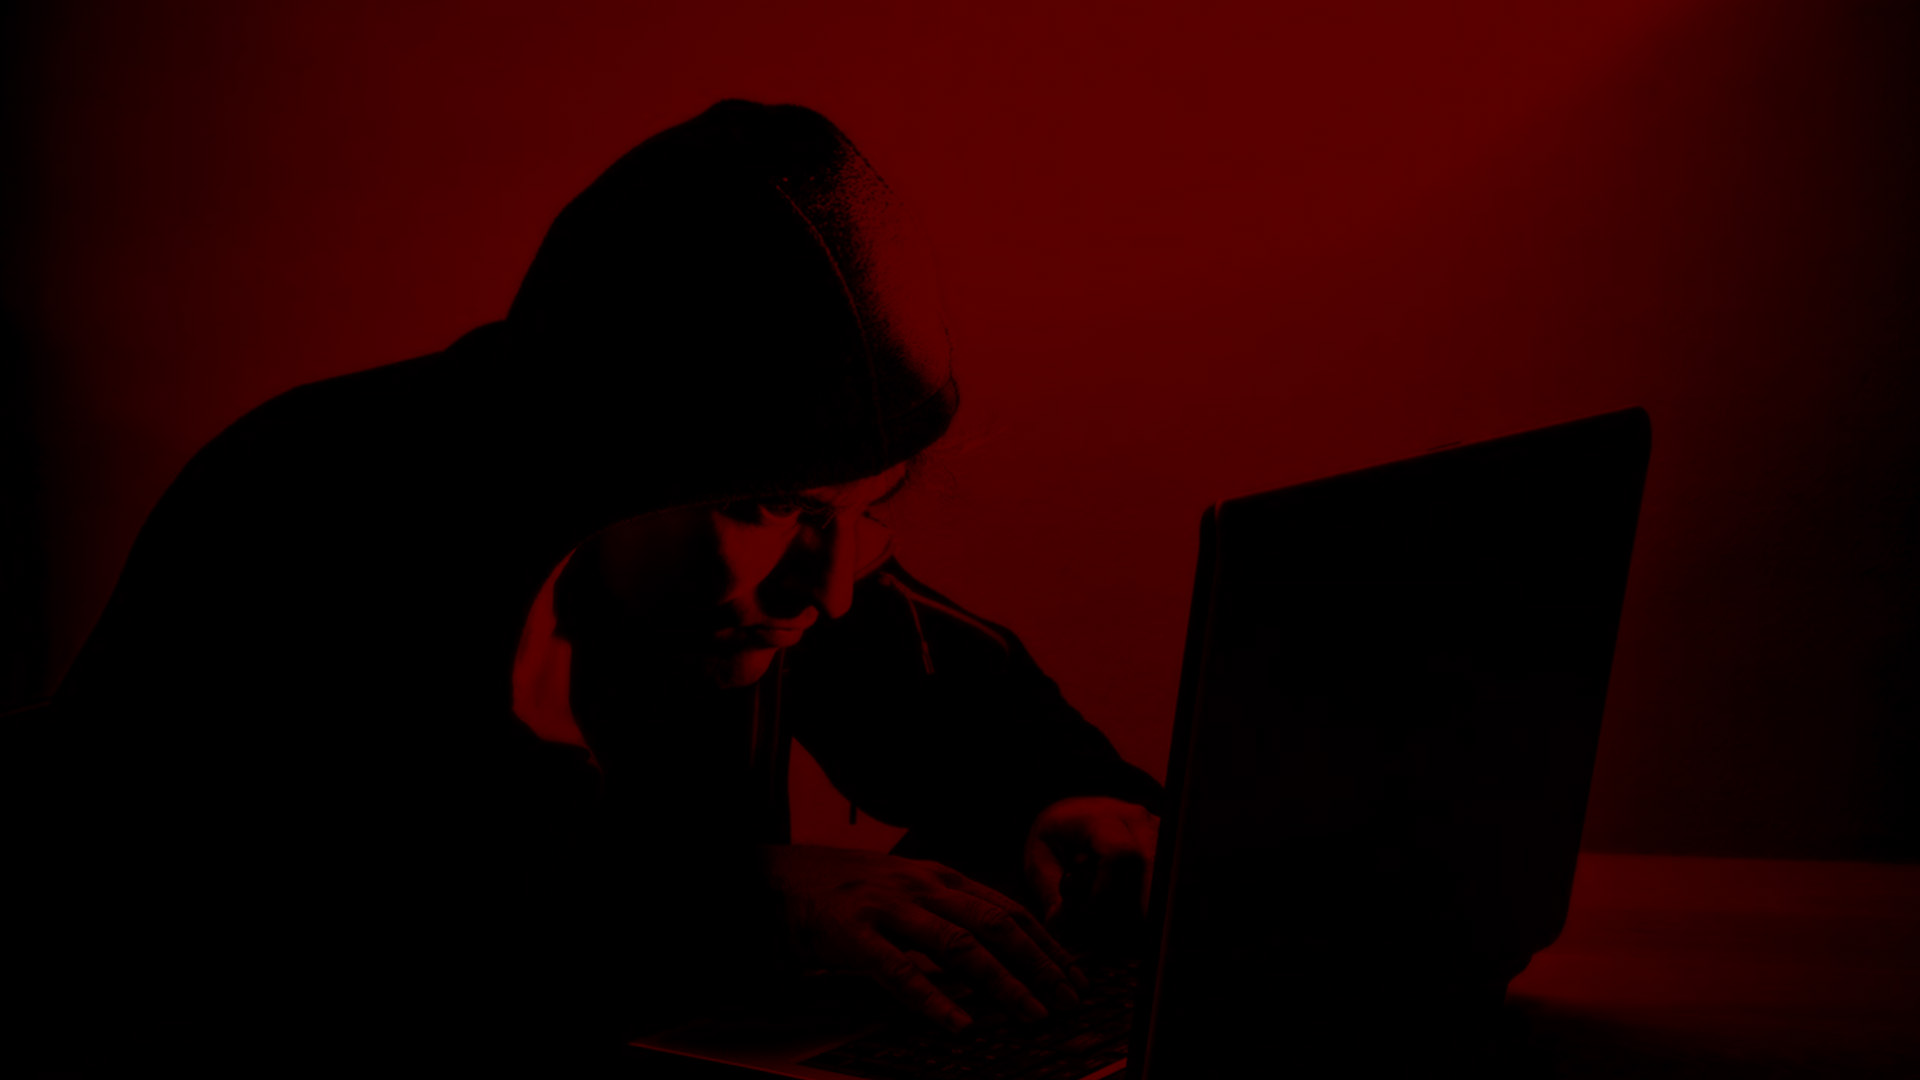
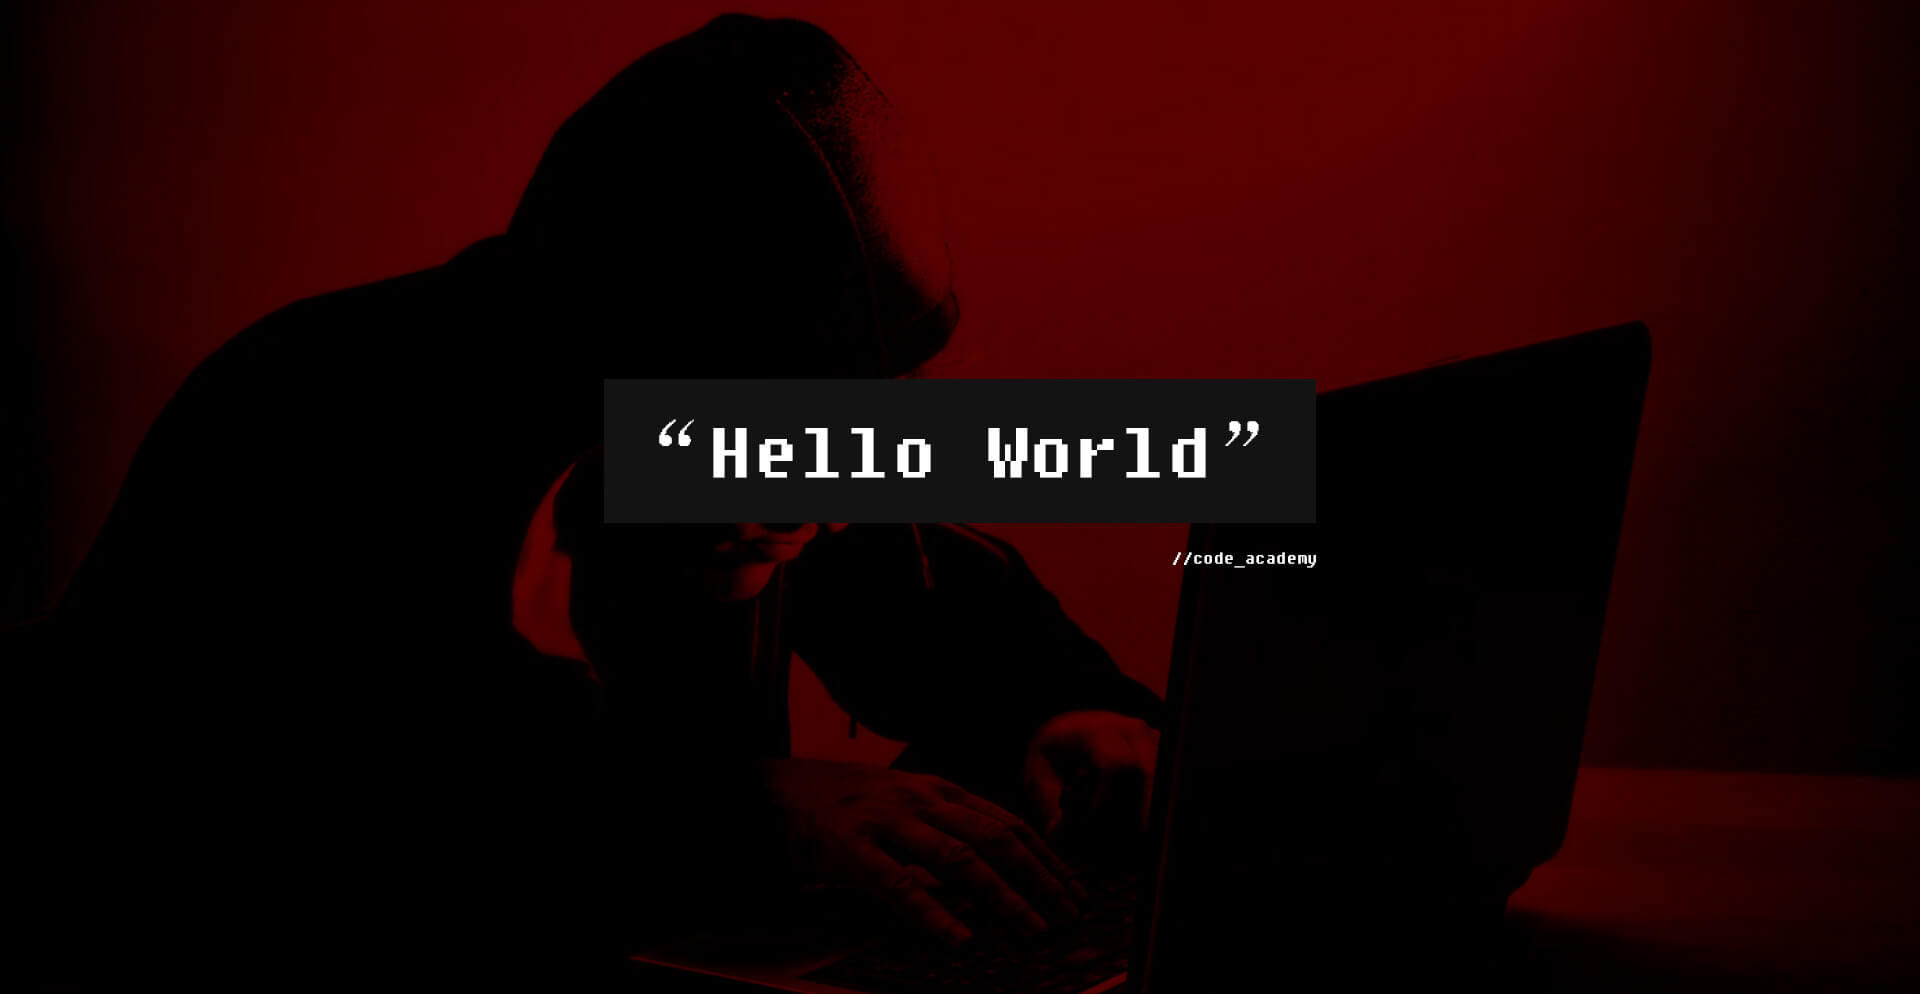
app

diff --git a/src/components/home/home.vue b/src/components/home/home.vue
@@ -1,44 +1,69 @@
 <template lang="jade">
     mu-row(gutter)
-        mu-row.fullscreen(v-bind:style="{height : height + 'px'}" style="color: #111111;background-image:url('../../../static/img/home/homebg.jpg')")
-            mu-col.half(desktop="100")
-                img(src="../../../static/img/home/hello_world.jpg")
-
+        mu-row.fullscreen(v-bind:style="{height : height + 'px'}" style="background-image:url('/static/img/home/homebg.jpg')")
         mu-row.fullscreen(v-bind:style="{height : height + 'px'}" style="color: #b00000;background-color:#eaeaea")
             mu-col.half(desktop="50" style="padding: 0 200px 0 0;")
-                h1 采用最先进的教学方式
+                h1 Co-Learning
                 .line(style="background-color:#b00000")
-                p 我们的核心是Co-Learning，大家聚在一起学习与交流可以通过网络获取知识，解决知识更新过快的问题
+                br
+                i.icon.users.huge
+                br
+                p 我们的核心是Co-Learning（联合学习）
+                p 在自我探索和与群体分享的过程中，大家聚在一起学习与交流，获取全面、最新的知识，解决知识更新过快的问题。
             mu-col.half(desktop="50")
                 .img(style="background-image: url(../../../static/img/home/one.jpg)")
                     .identifie(style="border: 4px solid white")
 
-        mu-row.fullscreen(v-bind:style="{height : height + 'px'}" style="color: black;background-color:#f3f3f3")
+        mu-row.fullscreen(v-bind:style="{height : height + 'px'}" style="color: black;background-color:#f4f4f4")
+            mu-col.half(desktop="50")
+                .img(style="background-image: url(../../../static/img/home/three.png)")
+                    .identifie(style="border: 4px solid white")
+            mu-col.half(desktop="50" style="padding: 0 0 0 200px;")
+                h1 项目驱使的教学方法
+                .line(style="background-color:#b00000")
+                br
+                i.icon.calendar.huge
+                br
+                p 一进入学校，便开始真正进入项目合作。
+                p 你可以选择项目中感兴趣的部分所有获取的知识都来自于实际的项目。CodeA会为你提供可选择的项目，了解项目需求后，你可以自行选择：UI设计或者数据库等
+                p 你完成的项目越多，级别越高，每到达7级或7的倍数时，可进入实习与培训项目
+                p 毕业时，你的履历中将是满满的经验值.
+
+        mu-row.fullscreen(v-bind:style="{height : height + 'px'}" style="color: black;background-color:#eaeaea")
             mu-col.half(desktop="50" style="padding: 0 200px 0 0;")
                 h1 教和学是一体的
-                .line(style="background-color:#111111")
+                .line(style="background-color:#222")
+                br
+                i.icon.spy.huge
+                br
                 p 老师就是你身边的任何一个人，他可以是学校的聘任的编程大师，也可以是刚入学的同学；不要吝啬你的知识，分享给你身边的人
             mu-col.half(desktop="50")
                 .img(style="background-image: url(../../../static/img/home/two.jpg);height:64%;width:80%")
                     .identifie(style="border: 4px solid white")
 
-        mu-row.fullscreen(v-bind:style="{height : height + 'px'}" style="color: black;background-color:#eaeaea")
+        mu-row.fullscreen(v-bind:style="{height : height + 'px'}" style="color: black;background-color:#f4f4f4")
             mu-col.half(desktop="50")
                 .img(style="background-image: url(../../../static/img/home/three.png)")
                     .identifie(style="border: 4px solid white")
             mu-col.half(desktop="50" style="padding: 0 0 0 200px;")
                 h1 按照自己的节奏
                 .line(style="background-color:black")
-                p 学校里，所有人都要用同样的时间，学同一样东西，这个不是Bad idea吗 <br/> 你将按照自己的节奏来学习 <br/>你生来就不一样，不需要同进退
+                br
+                i.icon.rocket.huge
+                br
+                p 如果能用一天的时间学习完课表上五天的内容，为什么不呢？在大多数学校里，所有人都要用同样的时间，学同一样的东西
+                p 但在CodeA，你可以自由地按照自己的节奏学习
+                p 你生来就不一样，不需要同进退
 
-        mu-row.fullscreen(v-bind:style="{height : height + 'px'}" style="color: #3b3b3b;padding: 0 10%;background-color:#f3f3f3")
+
+        mu-row.fullscreen(v-bind:style="{height : height + 'px'}" style="color: #3b3b3b;padding: 0 10%;background-color:#eaeaea")
             mu-col.half(desktop="30" v-for="item in features")
                 div(style="height: 70%;background-color: white;" align="center")
                     img(:src="item.img" style="width:51%;margin:17% 0;")
                     p(style="padding:0 15%;" v-html="item.textfile" align="left")  {{item.textfile}}
                     h2(style="margin: 14% 0") {{item.name}}
 
-        mu-row.fullscreen(v-bind:style="{height : height + 'px'}" style="padding:0;background-color:#eaeaea")
+        mu-row.fullscreen(v-bind:style="{height : height + 'px'}" style="padding:0;background-color:#f4f4f4")
                 mu-col.half(desktop="100" style="height:27%")
                     h1(align="center") 在这里 <br/> 你可以参与到的项目
                 mu-col.half(desktop="50" style="height:20%;background-color:#d7d7d7;padding:0 8% 0 3%;")
@@ -86,7 +111,7 @@
                 mu-col.half(desktop="100" align="center" style="height:13%")
                     mu-raised-button(style="width:300px;height:50px;font-size:18px;color:#b00000") 更多项目
         
-        mu-row.fullscreen(v-bind:style="{height : height + 'px'}" style="padding:0;background-color:#f3f3f3")
+        mu-row.fullscreen(v-bind:style="{height : height + 'px'}" style="padding:0;background-color:#eaeaea")
             mu-col.half(desktop="100" style="height:27%")
                 h1(align="center") 所想 <br/> 即所得
             mu-col.half(desktop="100" align="center" style="height:73%")
@@ -96,7 +121,7 @@
                 h2 成为P8的一员
                 
 
-        mu-row.fullscreen(v-bind:style="{height : height + 'px'}" style="padding:0;background-color:#eaeaea")
+        mu-row.fullscreen(v-bind:style="{height : height + 'px'}" style="padding:0;background-color:#f4f4f4")
             mu-col.half(align="center" desktop="100" style="position: relative")
                 div.last-title
                     h1 Geek文化
@@ -156,6 +181,14 @@ export default {
     padding: 0 !important;
 }
 
+.first-page {
+    font-size: 70px;
+    background-color: #151515;
+    color: white;
+    margin: 0 auto;
+    padding: 20px;
+}
+
 .fullscreen {
     width: 100%;
     padding: 0 20%;
@@ -172,6 +205,8 @@ export default {
 
 .half p {
     font-size: 15px;
+    line-height: 27px;
+    margin: 10px 0;
 }
 
 .line {
@@ -199,40 +234,40 @@ h2 {
 
 .last-title {
     position: relative;
-    color:#b00000;
-    top:4%;
+    color: #b00000;
+    top: 4%;
     left: -10%;
     z-index: 99;
-    background-color: #eaeaea;
+    background-color: #f4f4f4;
     width: 20%;
 }
 
 .last-content {
     position: relative;
-    color:#b00000;
-    width:25%;
-    top:5%;
+    color: #b00000;
+    width: 25%;
+    top: 5%;
     left: -1%;
     padding: 0 10px;
     z-index: 99;
     line-height: 25px;
     text-align: left;
-    background-color: #eaeaea;
+    background-color: #f4f4f4;
 }
 
 .last-img {
-    position:relative;
-    top:-15%;
-    width:75%;
-    height:65%;
-    border:4px solid white;
+    position: relative;
+    top: -15%;
+    width: 75%;
+    height: 65%;
+    border: 4px solid white;
 }
 
-.last-img img{
-    width:90%;
-    height:98%;
+.last-img img {
+    width: 90%;
+    height: 98%;
     position: relative;
-    top:15%;
-    left:1%;
+    top: 15%;
+    left: 1%;
 }
 </style>

diff --git a/src/components/school/school.vue b/src/components/school/school.vue
@@ -3,42 +3,35 @@
         mu-col(desktop="20")
             mu-paper(height="100")
                 mu-list.column
-                    mu-list-item(title="学校",:toggleNested="true")
-                        mu-icon(slot="left",value="dns")
-                        mu-list-item(slot="nested",title="愿景", to='/school/vision')
-                            mu-icon(slot="left",value="grade")
-                        mu-list-item(slot="nested",title="目标", to='/school/mission')
-                            mu-icon(slot="left",value="my_location")
-                        mu-list-item(slot="nested",title="革新", to='/school/revolution')
-                            mu-icon(slot="left",value="extension")
-                        mu-list-item(slot="nested",title="学习环境", to='/school/study_space')
-                            mu-icon(slot="left",value="event_seat")
-                        mu-list-item(slot="nested",title="居住环境", to='/school/dorm_space')
-                            mu-icon(slot="left",value="nature_people")
-                    mu-list-item(title="课程",:toggleNested="true")
-                        mu-icon(slot="left",value="school")
-                        mu-list-item(slot="nested",title="集训", to='/school/parkathon')
-                            mu-icon(slot="left",value="looks_one")
-                        mu-list-item(slot="nested",title="两年课程", to='/school/course')
-                            mu-icon(slot="left",value="looks_two")
-                        mu-list-item(slot="nested",title="项目组", to='/school/team')
-                            mu-icon(slot="left",value="looks_3")
-                        mu-list-item(slot="nested",title="就业", to='/school/career')
-                            mu-icon(slot="left",value="looks_4")
-                    mu-list-item(title="项目",:toggleNested="true")
-                        mu-icon(slot="left",value="assessment")
-                        mu-list-item(slot="nested",title="课程项目", to='/school/project_lecture')
-                            mu-icon(slot="left",value="looks_4")
-                        mu-list-item(slot="nested",title="商业项目", to='/school/project_bus')
-                            mu-icon(slot="left",value="looks_4")
-                    mu-list-item(title="报名",:toggleNested="true")
-                        mu-icon(slot="left",value="inbox")
-                        mu-list-item(slot="nested",title="注册", to='/school/register')
-                            mu-icon(slot="left",value="account_box")
-                        mu-list-item(slot="nested",title="入学考试", to='/school/entrance')
-                            mu-icon(slot="left",value="create")
-                    mu-list-item(title="联系我们", to='/school/contact')
-                        mu-icon(slot="left",value="phone")
+                    mu-sub-header 
+                        i.icon.university
+                        span &nbsp; 学校 School
+                    mu-list-item.item(title="愿景", to='/school/vision')
+                    mu-list-item.item(title="目标", to='/school/mission')
+                    mu-list-item.item(title="革新", to='/school/revolution')
+                    mu-list-item.item(title="学习环境", to='/school/study_space')
+                    mu-list-item.item(title="居住环境", to='/school/dorm_space')
+                    mu-divider
+                    mu-sub-header 
+                        i.icon.student
+                        span &nbsp; 课程 Courses 
+                    mu-list-item.item(title="集训营", to='/school/parkathon')
+                    mu-list-item.item(title="两年课程", to='/school/course')
+                    mu-list-item.item(title="项目组", to='/school/team')
+                    mu-list-item.item(title="就业", to='/school/career')
+                    mu-divider
+                    mu-sub-header 
+                        i.icon.laptop
+                        span &nbsp; 项目 Projects
+                    mu-list-item.item(title="课程项目", to='/school/project_lecture')
+                    mu-list-item.item(title="商业项目", to='/school/project_bus')
+                    mu-divider
+                    mu-sub-header 
+                        i.icon.add.user
+                        span &nbsp; 报名 Register
+                    mu-list-item.item(title="注册", to='/school/register')
+                    mu-list-item.item(title="入学考试", to='/school/entrance')
+                    mu-list-item.item(title="联系我们", to='/school/contact')
         mu-col(desktop="80")
             router-view
 </template>
@@ -61,4 +54,5 @@ export default {
 </script>
 
 <style scoped>
+
 </style>

diff --git a/src/components/course/course.vue b/src/components/course/course.vue
@@ -3,17 +3,20 @@
         mu-col(desktop="20")
             mu-paper(height="100")
                 mu-list
-                    mu-sub-header 软件开发
+                    mu-sub-header 
+                        i.icon.browser
+                        span &nbsp; 软件开发
                     mu-list-item(v-for='item in menuSoft',:key='item.id',:title='item.name', @click='loadCourse(item.id)', :class='currentMenu == item.id ? "router-link-active" : ""')
-                        i.icon(slot="left",:class='item.icon')
                     mu-divider
-                    mu-sub-header 硬件开发
+                    mu-sub-header 
+                        i.icon.disk.outline
+                        span &nbsp; 硬件开发
                     mu-list-item(v-for='item in menuHard',:key='item.id',:title='item.name', @click='loadCourse(item.id)', :class='currentMenu == item.id ? "router-link-active" : ""')
-                        i.icon(slot="left",:class='item.icon')
                     mu-divider
-                    mu-sub-header 艺术
+                    mu-sub-header 
+                        i.icon.file.image.outline
+                        span &nbsp; 艺术
                     mu-list-item(v-for='item in menuArt',:key='item.id',:title='item.name', @click='loadCourse(item.id)', :class='currentMenu == item.id ? "router-link-active" : ""')
-                        i.icon(slot="left",:class='item.icon')
         mu-col(desktop="80")
             mu-row(gutter)
                 mu-col(desktop='33', tablet='50', width='100', v-for="item in course", key='item.id')

diff --git a/src/App.vue b/src/App.vue
@@ -68,7 +68,7 @@ export default {
 }
 
 .menu {
-    background-color: #424242;
+    background-color: #222;
     position: fixed;
     left: 0;
     top: 0;
